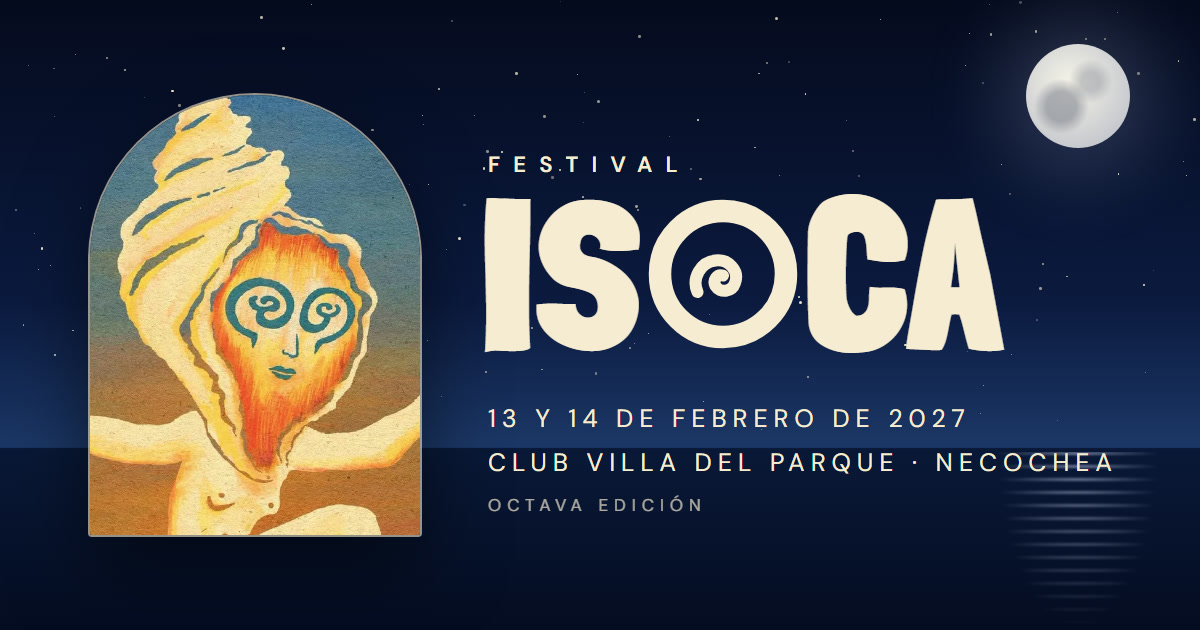
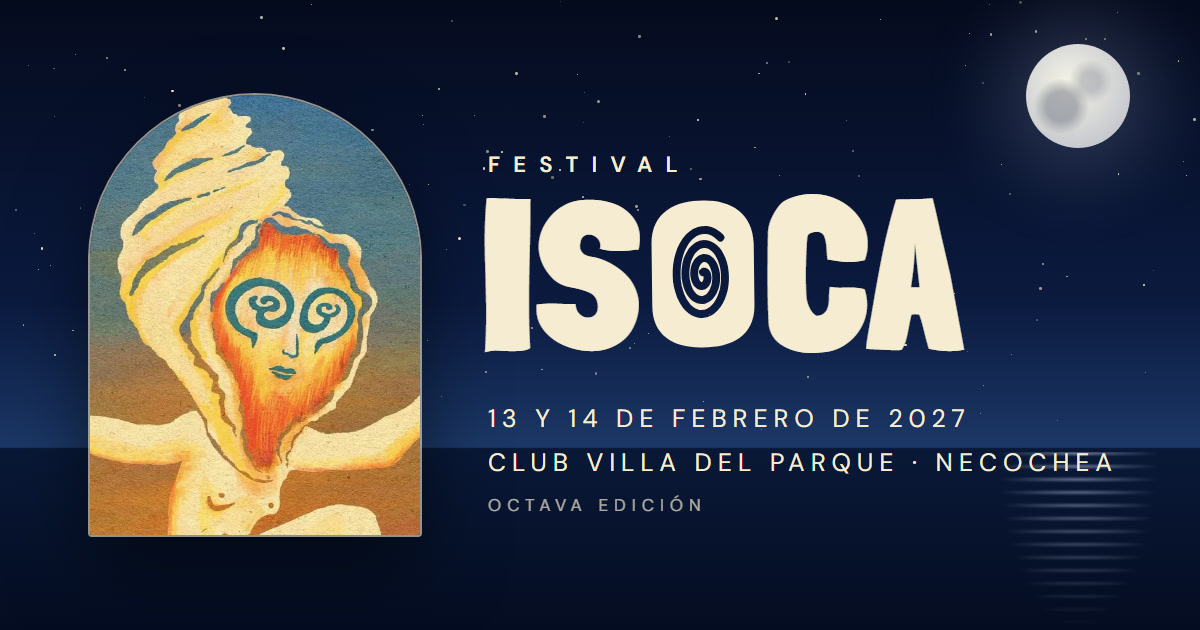
Add files via upload

Changed region(s): [[0.5242, 0.3016, 0.8325, 0.573]]

diff --git a/index.html b/index.html
@@ -47,7 +47,7 @@
 
   <section class="bloque hero" id="inicio">
     <div class="arco"><img src="img/2027/iso.webp" width="800" height="800" alt="Personaje del afiche: una figura con cabeza de caracol que baila sobre el agua" fetchpriority="high"></div>
-    <h1><small>Festival</small><span>IS<svg class="o-espiral" viewBox="0 0 100 100" fill="none" stroke="currentColor" stroke-linecap="round" aria-hidden="true"><circle cx="50" cy="50" r="42" stroke-width="15"/><path stroke-width="8" d="M50 51c-4-1-7 3-5 7 3 5 11 4 13-2 3-8-4-16-13-15-10 1-16 12-12 21"/></svg><span class="sr">O</span>CA</span></h1>
+    <h1><small>Festival</small><span>IS<svg class="o-espiral" viewBox="0 0 70 100" aria-hidden="true"><mask id="oesp"><rect width="70" height="100" fill="#fff"/><path d="M35.0 48.8L35.2 48.7L35.4 48.5L35.7 48.5L35.9 48.4L36.2 48.5L36.5 48.6L36.7 48.8L37.0 49.1L37.3 49.5L37.5 49.9L37.7 50.4L37.8 50.9L37.9 51.5L38.0 52.2L38.0 52.9L37.9 53.5L37.8 54.2L37.6 54.9L37.3 55.5L37.0 56.1L36.6 56.7L36.1 57.1L35.6 57.5L35.1 57.8L34.5 57.9L34.0 58.0L33.4 57.9L32.7 57.6L32.2 57.3L31.6 56.8L31.0 56.2L30.6 55.4L30.1 54.5L29.8 53.6L29.5 52.5L29.3 51.3L29.2 50.1L29.2 48.9L29.3 47.7L29.5 46.4L29.8 45.2L30.2 44.1L30.8 43.0L31.4 42.1L32.1 41.2L32.9 40.5L33.7 40.0L34.6 39.6L35.6 39.4L36.5 39.5L37.5 39.7L38.5 40.1L39.4 40.8L40.3 41.6L41.1 42.7L41.8 43.9L42.4 45.3L42.9 46.8L43.3 48.4L43.6 50.1L43.7 51.9L43.7 53.8L43.5 55.6L43.2 57.4L42.7 59.1L42.0 60.8L41.3 62.3L40.4 63.6L39.4 64.8L38.2 65.8L37.0 66.5L35.8 67.0L34.4 67.2L33.1 67.1L31.8 66.8L30.5 66.2L29.2 65.3L28.0 64.1L26.9 62.7L25.9 61.0L25.1 59.2L24.4 57.1L23.9 54.9L23.5 52.6L23.4 50.2L23.4 47.8L23.7 45.4L24.1 43.0L24.7 40.7L25.6 38.6L26.6 36.6L27.7 34.8L29.1 33.3L30.5 32.1L32.1 31.1L33.7 30.5L35.4 30.2L37.1 30.3L38.8 30.7L40.5 31.5L42.1 32.6L43.6 34.0L45.0 35.8L46.2 37.9L47.3 40.2L48.2 42.8L48.9 45.5L49.3 48.4L49.5 51.4L49.5 54.4L49.2 57.4L48.7 60.4L47.9 63.2L46.9 65.9L45.7 68.3L44.3 70.5L42.6 72.5L40.9 74.0L39.0 75.2L37.0 76.0L34.9 76.4L32.8 76.4L30.8 75.9L28.7 75.0L26.8 73.7L24.9 72.0L23.2 69.8L21.7 67.4L20.3 64.6L19.3 61.5L18.4 58.2L17.8 54.8L17.6 51.2L17.6 47.6L17.9 44.0L18.5 40.5L19.4 37.1L20.5 33.8L22.0 30.9L23.6 28.2L25.5 25.9L27.6 24.0L29.8 22.5L32.2 21.5L34.6 21.0L37.1 20.9L39.5 21.4L41.9 22.4L44.3 23.9L46.5 25.9" fill="none" stroke="#000" stroke-width="5.2" stroke-linecap="round" stroke-linejoin="round"/></mask><path mask="url(#oesp)" fill="currentColor" d="M35 1.5C52 1 68 9 68.5 30L69 71C69 91 54 98.5 35 98.5C16 99 1.5 91 1.5 71L1 30C1 9 17 1.5 35 1.5Z"/></svg><span class="sr">O</span>CA</span></h1>
     <p class="datos">13 y 14 de febrero de 2027<br><a data-mapa target="_blank" rel="noopener" href="https://maps.app.goo.gl/asRHby8seFDc2xvy9">Club Villa del Parque · Necochea</a><small>Octava edición</small></p>
     <a class="flecha" href="#presentacion" aria-label="Seguir bajando">
       <svg viewBox="0 0 100 110" fill="none" stroke="currentColor" stroke-width="3.2" stroke-linecap="round" stroke-linejoin="round" aria-hidden="true">
@@ -124,5 +124,6 @@
 <script src="data/talleres.js"></script>
 <script src="js/escena.js"></script>
 <script src="js/isoca.js"></script>
+<script data-goatcounter="https://festival-isoca.goatcounter.com/count" async src="//gc.zgo.at/count.js"></script>
 </body>
 </html>

diff --git a/css/isoca.css b/css/isoca.css
@@ -61,7 +61,7 @@ main{position:relative;z-index:2;overflow-x:hidden;overflow-x:clip}
 .arco img{width:100%;height:100%;object-fit:cover;object-position:50% 30%;transform:scale(1.12)}
 .hero h1{font-size:clamp(56px,min(19vw,17svh),200px);display:flex;flex-direction:column;line-height:.84;text-shadow:0 4px 50px rgba(5,10,30,.4)}
 .hero h1 small{font:600 clamp(11px,2.6vw,15px)/1 var(--texto);letter-spacing:.6em;margin:0 0 14px .6em;opacity:.9}
-.o-espiral{display:inline-block;width:.7em;height:.7em;margin:0 .03em;vertical-align:-.02em;animation:giro 18s linear infinite}
+.o-espiral{display:inline-block;width:.5em;height:.715em;margin:0 .035em;vertical-align:baseline}
 @keyframes giro{to{transform:rotate(360deg)}}
 .datos{margin:18px 0 0;font-size:clamp(12px,3.2vw,15px);letter-spacing:.26em;text-transform:uppercase;line-height:2;text-shadow:0 1px 14px rgba(5,10,30,.5)}
 .datos a{text-decoration:none;border-bottom:1px solid rgba(247,236,210,.5);padding-bottom:3px;transition:border-color .4s}
